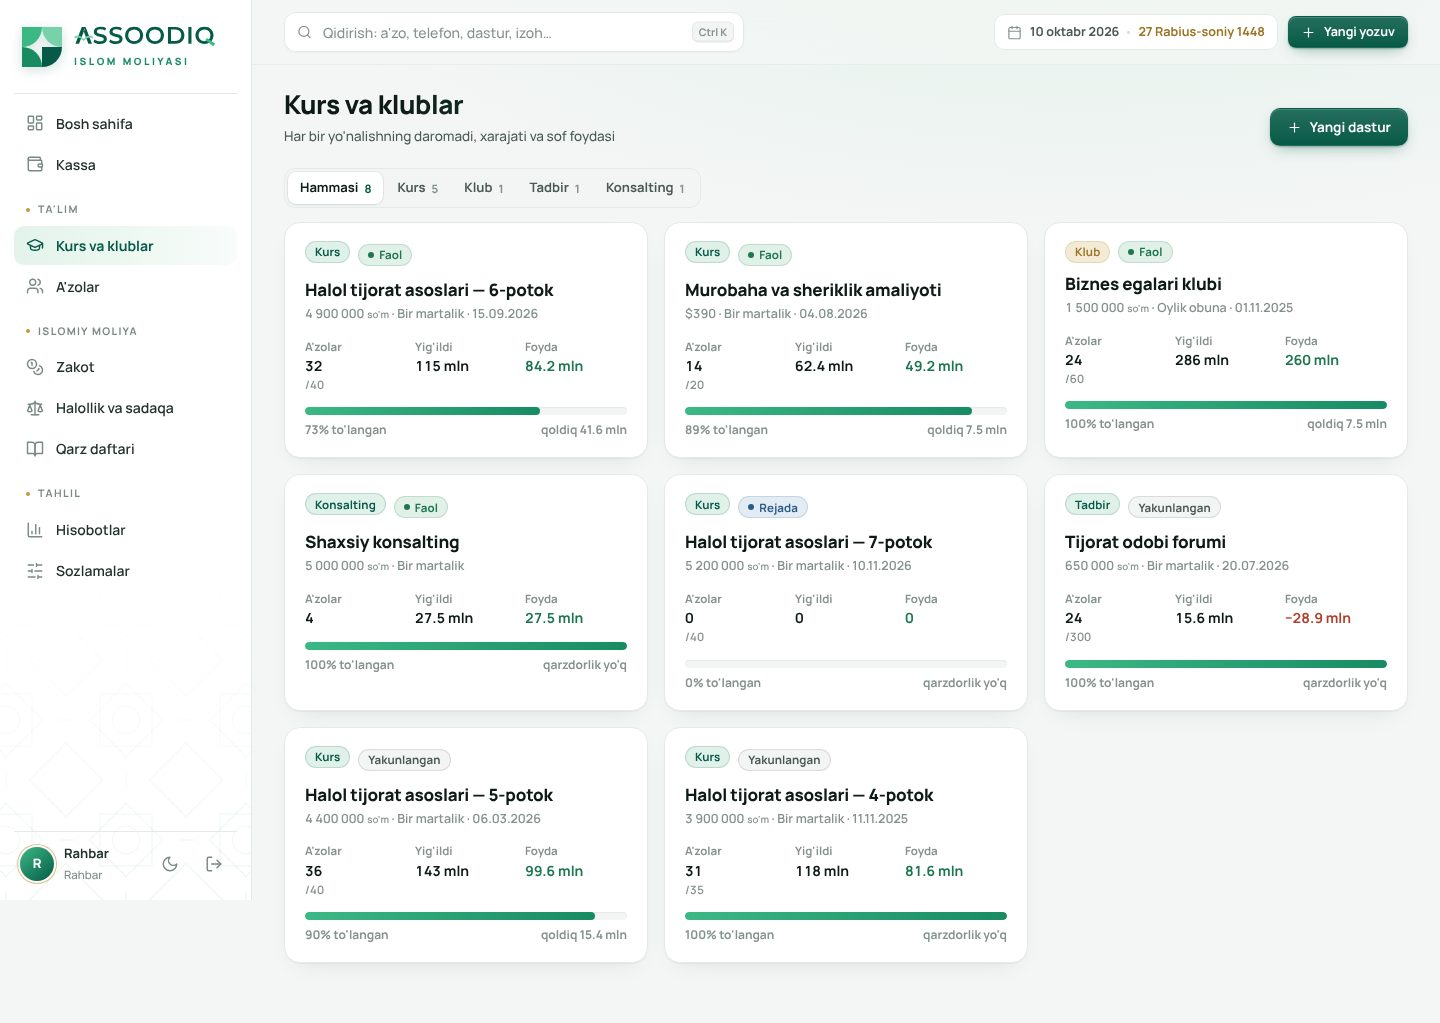
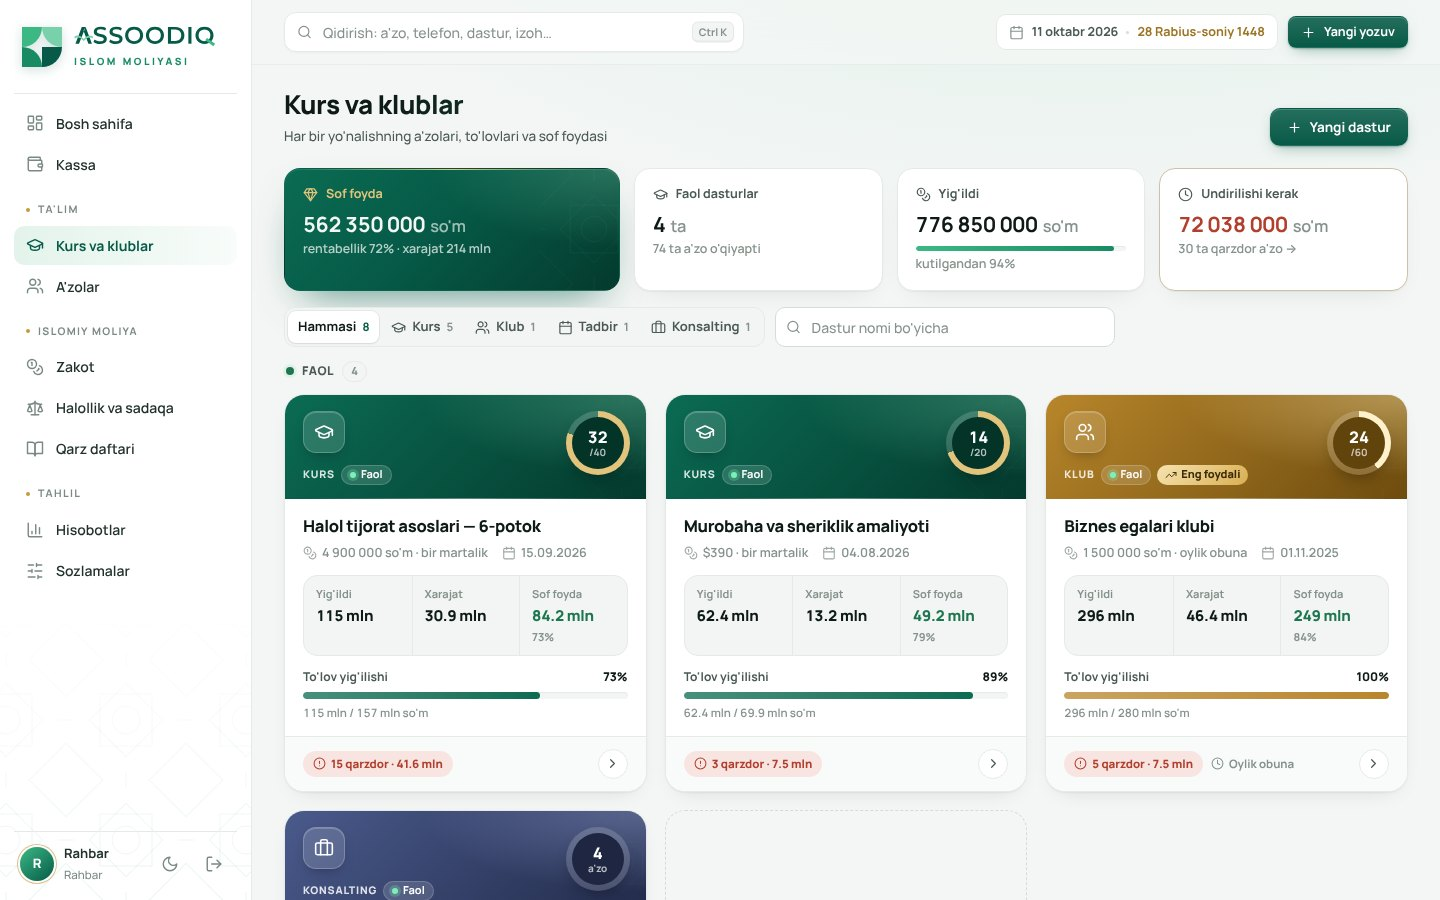
feat(dasturlar): professional kartochkalar va umumiy ko'rsatkichlar
- Har bir dastur turi uchun rangli muqova (kurs — zumrad, klub — oltin, tadbir — moviy,
  konsalting — indigo), ikonka, holat belgisi va o'rinlar bandligi halqasi
- Kartada yig'ildi / xarajat / sof foyda (rentabellik bilan), to'lov yig'ilishi chizig'i,
  qarzdorlar soni va qoldig'i, muddat (necha kun qoldi / boshlanadi / tugagan)
- Eng foydali dastur belgisi, yakunlanganlar sokin ko'rinishda
- Tepada sof foyda, faol dasturlar, yig'ilgan va undirilishi kerak summa
- Holat bo'yicha guruhlar, nom bo'yicha qidiruv, «Yangi dastur» kartasi

Claude-Session: https://claude.ai/code/session_01DkcMtNmmPnFdSFcGHH43mz

diff --git a/static/css/app.css b/static/css/app.css
@@ -1046,3 +1046,90 @@ details.more-opts[open] summary { border-bottom: 1px solid var(--line); }
   .toolbar .k-cat { flex: 1 1 40%; }
   .toolbar .search { flex: 1 1 55%; min-width: 0; max-width: none; }
 }
+
+/* ══ Kurs va klublar: professional kartochkalar ═══════════════════════════ */
+.p-sum { grid-template-columns: 1.35fr 1fr 1fr 1fr; }
+.p-sum .bar.thin { height: 5px; }
+.stat.warn-stat { border-color: color-mix(in srgb, var(--warn) 30%, var(--line)); }
+.p-group + .p-group { margin-top: 26px; }
+.p-group-h { display: flex; align-items: center; gap: 8px; margin: 4px 2px 12px; font-size: 12px; font-weight: 800; letter-spacing: .6px; text-transform: uppercase; color: var(--txt2); }
+.p-group-h .n { font-size: 11px; font-weight: 800; color: var(--txt3); background: var(--surface2); border: 1px solid var(--line); border-radius: 999px; padding: 1px 8px; letter-spacing: 0; }
+.dot-st { width: 8px; height: 8px; border-radius: 50%; background: var(--txt3); }
+.dot-st.st-faol { background: var(--ok); box-shadow: 0 0 0 3px var(--ok-bg); }
+.dot-st.st-rejada { background: var(--info); box-shadow: 0 0 0 3px var(--info-bg); }
+
+.pcards { display: grid; grid-template-columns: repeat(auto-fill, minmax(320px, 1fr)); gap: 18px; }
+.pcard { --cv1: #0B6B53; --cv2: #043A2E; --cv-glow: rgba(120, 209, 171, .35); --ring: #E3C47C;
+  position: relative; display: flex; flex-direction: column; border-radius: 20px; background: var(--surface); border: 1px solid var(--line);
+  box-shadow: 0 1px 2px rgba(14, 26, 21, .05), 0 8px 24px -16px rgba(14, 26, 21, .25); overflow: hidden; color: var(--txt);
+  transition: transform .22s cubic-bezier(.2, .8, .2, 1), box-shadow .22s, border-color .22s; animation: rise .45s cubic-bezier(.2, .8, .2, 1) both; }
+.pcard:hover { transform: translateY(-3px); border-color: color-mix(in srgb, var(--cv1) 30%, var(--line)); box-shadow: 0 2px 4px rgba(14, 26, 21, .06), 0 22px 40px -22px color-mix(in srgb, var(--cv1) 70%, transparent); }
+.pcard:focus-visible { outline: none; box-shadow: var(--ring); }
+.pcard.k-klub { --cv1: #B8862B; --cv2: #6E4C0E; --cv-glow: rgba(246, 222, 160, .45); --ring: #FFF1CC; }
+.pcard.k-tadbir { --cv1: #1F7591; --cv2: #0C3A4E; --cv-glow: rgba(140, 214, 236, .35); --ring: #BDE9F5; }
+.pcard.k-konsalting { --cv1: #4A5A8C; --cv2: #222B4A; --cv-glow: rgba(173, 188, 240, .35); --ring: #D5DCF8; }
+
+.pc-cover { position: relative; height: 104px; padding: 16px 18px; color: #fff; overflow: hidden;
+  background: radial-gradient(120% 150% at 100% 0%, var(--cv-glow) 0, transparent 52%), linear-gradient(135deg, var(--cv1) 0%, var(--cv2) 100%); }
+.pc-cover::before { content: ""; position: absolute; inset: 0; background: url("../img/pattern.svg") right -24px center/96px repeat-y; opacity: .35; pointer-events: none; }
+.pc-cover::after { content: ""; position: absolute; left: 18px; right: 18px; bottom: 0; height: 1px; background: linear-gradient(90deg, transparent, rgba(255, 255, 255, .35), transparent); }
+.pc-ico { position: relative; z-index: 1; width: 42px; height: 42px; border-radius: 13px; display: grid; place-items: center; background: rgba(255, 255, 255, .14); border: 1px solid rgba(255, 255, 255, .22); box-shadow: 0 1px 0 rgba(255, 255, 255, .2) inset, 0 6px 14px -6px rgba(0, 0, 0, .35); }
+.pc-ico .ic { width: 20px; height: 20px; }
+.pc-tags { position: relative; z-index: 1; display: flex; gap: 6px; align-items: center; margin-top: 12px; flex-wrap: wrap; padding-right: 76px; }
+.pc-kind { font-size: 10.5px; font-weight: 800; letter-spacing: .8px; text-transform: uppercase; color: rgba(255, 255, 255, .85); }
+.pc-st { display: inline-flex; align-items: center; gap: 5px; height: 20px; padding: 0 8px; border-radius: 999px; font-size: 11px; font-weight: 700; background: rgba(255, 255, 255, .14); border: 1px solid rgba(255, 255, 255, .18); }
+.pc-st i { width: 6px; height: 6px; border-radius: 50%; background: rgba(255, 255, 255, .6); }
+.st-faol .pc-st i { background: #7CF0B8; box-shadow: 0 0 0 3px rgba(124, 240, 184, .25); }
+.st-rejada .pc-st i { background: #9AD7FF; }
+.pc-badge { display: inline-flex; align-items: center; gap: 4px; height: 20px; padding: 0 8px; border-radius: 999px; font-size: 11px; font-weight: 800; color: #3A2A06; background: linear-gradient(135deg, #F6E3B0, #D9AE52); }
+.pc-badge .ic { width: 12px; height: 12px; }
+.pc-ring { position: absolute; z-index: 1; right: 16px; top: 16px; width: 64px; height: 64px; border-radius: 50%; display: grid; place-items: center;
+  background: conic-gradient(var(--ring) calc(var(--p, 0) * 1%), rgba(255, 255, 255, .16) 0); box-shadow: 0 8px 18px -8px rgba(0, 0, 0, .45); }
+.pc-ring.nocap { background: rgba(255, 255, 255, .16); }
+.pc-ring > div { width: 52px; height: 52px; border-radius: 50%; display: flex; flex-direction: column; align-items: center; justify-content: center; line-height: 1; background: color-mix(in srgb, var(--cv2) 88%, #000); }
+.pc-ring b { font-size: 16px; font-weight: 800; font-variant-numeric: tabular-nums; }
+.pc-ring span { font-size: 10px; font-weight: 700; color: rgba(255, 255, 255, .7); margin-top: 2px; }
+
+.pc-body { padding: 16px 18px 14px; display: flex; flex-direction: column; gap: 12px; flex: 1; }
+.pc-body h3 { margin: 0; font-size: 16.5px; font-weight: 800; line-height: 1.3; letter-spacing: -.3px; display: -webkit-box; -webkit-line-clamp: 2; -webkit-box-orient: vertical; overflow: hidden; }
+.pc-meta { display: flex; flex-wrap: wrap; gap: 6px 14px; margin-top: -4px; font-size: 12.5px; font-weight: 600; color: var(--txt3); }
+.pc-meta span { display: inline-flex; align-items: center; gap: 5px; }
+.pc-meta .ic { width: 14px; height: 14px; opacity: .8; }
+.pc-kpis { display: grid; grid-template-columns: repeat(3, 1fr); border-radius: 14px; background: var(--surface2); border: 1px solid var(--line); }
+.pc-kpis > div { padding: 10px 12px; min-width: 0; }
+.pc-kpis > div + div { border-left: 1px solid var(--line); }
+.pc-kpis span { display: block; font-size: 11px; font-weight: 700; color: var(--txt3); }
+.pc-kpis b { display: block; margin-top: 3px; font-size: 15px; font-weight: 800; letter-spacing: -.2px; white-space: nowrap; font-variant-numeric: tabular-nums; }
+.pc-kpis em { display: block; font-style: normal; font-size: 11px; font-weight: 700; color: var(--txt3); margin-top: 1px; }
+.pc-prog-h { display: flex; justify-content: space-between; font-size: 12px; font-weight: 700; color: var(--txt2); margin-bottom: 6px; }
+.pc-prog-h b { font-weight: 800; color: var(--txt); }
+.pc-prog .bar { height: 7px; }
+.pc-prog .bar i { background: linear-gradient(90deg, color-mix(in srgb, var(--cv1) 75%, #fff), var(--cv1)); }
+.pc-prog-f { margin-top: 5px; font-size: 11.5px; font-weight: 600; color: var(--txt3); font-variant-numeric: tabular-nums; }
+
+.pc-foot { display: flex; align-items: center; gap: 8px; padding: 12px 18px; border-top: 1px solid var(--line); background: color-mix(in srgb, var(--surface2) 45%, var(--surface)); }
+.pc-chip { display: inline-flex; align-items: center; gap: 5px; height: 26px; padding: 0 10px; border-radius: 999px; font-size: 11.5px; font-weight: 750; background: var(--surface2); color: var(--txt2); white-space: nowrap; }
+.pc-chip .ic, .pc-time .ic { width: 13px; height: 13px; }
+.pc-chip.ok { background: var(--ok-bg); color: var(--ok); }
+.pc-chip.bad { background: var(--bad-bg); color: var(--bad); }
+.pc-time { display: inline-flex; align-items: center; gap: 5px; font-size: 11.5px; font-weight: 650; color: var(--txt3); white-space: nowrap; overflow: hidden; text-overflow: ellipsis; min-width: 0; }
+.pc-go { margin-left: auto; flex: none; width: 30px; height: 30px; border-radius: 50%; display: grid; place-items: center; background: var(--surface); border: 1px solid var(--line); color: var(--txt2); transition: background .2s, color .2s, transform .2s; }
+.pcard:hover .pc-go { background: var(--cv1); border-color: var(--cv1); color: #fff; transform: translateX(2px); }
+
+/* Yakunlangan dasturlar: sokinroq */
+.pcard.st-yakunlangan .pc-cover { filter: saturate(.35) brightness(.92); }
+.pcard.st-yakunlangan .pc-prog .bar i { background: var(--txt3); }
+
+/* Yangi dastur kartasi */
+.pc-new { align-items: center; justify-content: center; gap: 6px; min-height: 300px; border: 1.5px dashed var(--line2); background: transparent; box-shadow: none; cursor: pointer; font: inherit; color: var(--txt2); }
+.pc-new:hover { border-color: var(--brand); background: color-mix(in srgb, var(--brand-bg) 40%, transparent); box-shadow: none; }
+.pc-new-i { width: 48px; height: 48px; border-radius: 16px; display: grid; place-items: center; background: var(--grad-em); color: #fff; margin-bottom: 6px; box-shadow: 0 10px 20px -10px rgba(6, 90, 71, .6); }
+.pc-new b { font-size: 15px; color: var(--txt); }
+.pc-new > span:last-child { font-size: 12.5px; color: var(--txt3); font-weight: 600; }
+
+@media (max-width: 1100px) { .p-sum { grid-template-columns: repeat(2, minmax(0, 1fr)); } }
+@media (max-width: 860px) {
+  .pcards { grid-template-columns: 1fr; gap: 14px; }
+  .p-sum .stat.hero, .p-sum > .stat:last-child { grid-column: 1 / -1; }
+  .pc-new { min-height: 120px; }
+}

diff --git a/templates/pages/programs.html b/templates/pages/programs.html
@@ -1,48 +1,118 @@
 {% extends "base.html" %}
 {% block title %}Kurs va klublar{% endblock %}
 {% block content %}
+{% set KIND_ICON = {"kurs": "cap", "klub": "users", "tadbir": "calendar", "konsalting": "briefcase"} %}
+{% set can_edit = g.user.role != 'menejer' %}
 <div class="head">
   <div>
     <div class="head-t">Kurs va klublar</div>
-    <div class="head-s">Har bir yo'nalishning daromadi, xarajati va sof foydasi</div>
+    <div class="head-s">Har bir yo'nalishning a'zolari, to'lovlari va sof foydasi</div>
   </div>
   <div class="head-a">
-    {% if g.user.role != 'menejer' %}<button class="btn solid" data-open="prog-modal">{{ ui.icon('plus', 'sm') }} Yangi dastur</button>{% endif %}
+    {% if can_edit %}<button class="btn solid" data-open="prog-modal">{{ ui.icon('plus', 'sm') }} Yangi dastur</button>{% endif %}
   </div>
+</div>
+
+{# Umumiy ko'rsatkichlar #}
+<div class="stats p-sum">
+  <div class="stat hero">
+    <div class="stat-l">{{ ui.icon('gem', 'sm') }} Sof foyda{{ ' · ' ~ kinds[kind] if kind }}</div>
+    <div class="stat-v">{{ ui.som(summary.profit) }}</div>
+    <div class="stat-s">rentabellik {{ summary.margin|pct }} · xarajat {{ summary.expenses|short }}</div>
+  </div>
+  <div class="stat">
+    <div class="stat-l">{{ ui.icon('cap', 'sm') }} Faol dasturlar</div>
+    <div class="stat-v">{{ summary.active }}<span class="cur">ta</span></div>
+    <div class="stat-s">{{ summary.members }} ta a'zo o'qiyapti</div>
+  </div>
+  <div class="stat">
+    <div class="stat-l">{{ ui.icon('coins', 'sm') }} Yig'ildi</div>
+    <div class="stat-v">{{ ui.som(summary.collected) }}</div>
+    <div class="bar thin" style="margin-top:10px"><i style="width:{{ (summary.progress * 100)|round }}%"></i></div>
+    <div class="stat-s">kutilgandan {{ summary.progress|pct }}</div>
+  </div>
+  <a class="stat {{ 'warn-stat' if summary.due > 0 }}" href="{{ url_for('dastur.members', holat='qarzdor') }}">
+    <div class="stat-l">{{ ui.icon('clock', 'sm') }} Undirilishi kerak</div>
+    <div class="stat-v {{ 'bad-t' if summary.due > 0 }}">{{ ui.som(summary.due) }}</div>
+    <div class="stat-s">{% if summary.debtors %}{{ summary.debtors }} ta qarzdor a'zo →{% else %}hamma to'lagan{% endif %}</div>
+  </a>
 </div>
 
 <div class="toolbar">
   <div class="seg">
     <a href="{{ url_for('dastur.programs') }}" class="{{ 'on' if not kind }}">Hammasi <span class="n">{{ counts[''] }}</span></a>
-    {% for k, v in kinds.items() %}<a href="{{ url_for('dastur.programs', tur=k) }}" class="{{ 'on' if kind == k }}">{{ v }} <span class="n">{{ counts[k] }}</span></a>{% endfor %}
+    {% for k, v in kinds.items() %}<a href="{{ url_for('dastur.programs', tur=k) }}" class="{{ 'on' if kind == k }}">{{ ui.icon(KIND_ICON[k], 'sm') }} {{ v }} <span class="n">{{ counts[k] }}</span></a>{% endfor %}
   </div>
+  <label class="search">{{ ui.icon('search', 'sm') }}<input type="search" placeholder="Dastur nomi bo'yicha" data-filter="#p-groups" aria-label="Dastur qidirish"></label>
 </div>
 
-<div class="prog-grid">
-  {% for s in stats %}
-  {% set p = s.program %}
-  <a class="card prog" href="{{ url_for('dastur.program', pid=p.id) }}">
-    <div>
-      <div class="prog-top">
-        <span class="pill {{ 'gold' if p.kind == 'klub' else 'brand' }}">{{ p.kind_name }}</span>
-        <span class="pill {{ 'ok' if p.status == 'faol' else ('info' if p.status == 'rejada' else '') }}">{{ p.status_name }}</span>
-      </div>
-      <h3 style="margin-top:10px">{{ p.name }}</h3>
-      <div class="meta">{{ ui.som(p.price, p.currency) }} · {{ p.billing_name }}{% if p.start_date %} · {{ p.start_date|d }}{% endif %}</div>
+<div id="p-groups">
+{% for st, st_name, items in groups %}
+  <div class="p-group">
+    <div class="p-group-h"><span class="dot-st st-{{ st }}"></span>{{ st_name }}<span class="n">{{ items|length }}</span></div>
+    <div class="pcards">
+    {% for s in items %}
+      {% set p = s.program %}
+      {% if p.status == 'rejada' and p.start_date %}{% set days = (p.start_date - today).days %}
+        {% set timing = (days ~ ' kundan keyin boshlanadi') if days > 0 else ('bugun boshlanadi' if days == 0 else "boshlanish sanasi o'tdi") %}
+      {% elif p.status == 'faol' and p.end_date and p.end_date >= today %}{% set timing = ((p.end_date - today).days ~ ' kun qoldi') %}
+      {% elif p.status == 'yakunlangan' and (p.end_date or p.start_date) %}{% set timing = 'tugagan ' ~ (p.end_date or p.start_date)|d %}
+      {% elif p.billing != 'bir_martalik' %}{% set timing = p.billing_name %}
+      {% else %}{% set timing = '' %}{% endif %}
+      <a class="pcard k-{{ p.kind }} st-{{ p.status }}" href="{{ url_for('dastur.program', pid=p.id) }}" data-q="{{ p.name }} {{ p.kind_name }}">
+        <div class="pc-cover">
+          <div class="pc-ico">{{ ui.icon(KIND_ICON.get(p.kind, 'cap')) }}</div>
+          <div class="pc-tags">
+            <span class="pc-kind">{{ p.kind_name }}</span>
+            <span class="pc-st"><i></i>{{ p.status_name }}</span>
+            {% if best and best.program.id == p.id and s.profit > 0 and stats|length > 2 %}<span class="pc-badge">{{ ui.icon('up', 'sm') }} Eng foydali</span>{% endif %}
+          </div>
+          {% if p.capacity %}
+          <div class="pc-ring" style="--p:{{ [((s.fill or 0) * 100)|round|int, 100]|min }}" title="{{ s.members }} / {{ p.capacity }} o'rin band">
+            <div><b>{{ s.members }}</b><span>/{{ p.capacity }}</span></div>
+          </div>
+          {% else %}
+          <div class="pc-ring nocap" title="{{ s.members }} ta a'zo"><div><b>{{ s.members }}</b><span>a'zo</span></div></div>
+          {% endif %}
+        </div>
+        <div class="pc-body">
+          <h3>{{ p.name }}</h3>
+          <div class="pc-meta">
+            <span>{{ ui.icon('coins', 'sm') }}{{ p.price|money(p.currency) }}{% if p.currency != 'USD' %} so'm{% endif %} · {{ p.billing_name|lower }}</span>
+            {% if p.start_date %}<span>{{ ui.icon('calendar', 'sm') }}{{ p.start_date|d }}{% if p.end_date %} – {{ p.end_date|d }}{% endif %}</span>{% endif %}
+          </div>
+          <div class="pc-kpis">
+            <div><span>Yig'ildi</span><b>{{ s.collected|short }}</b></div>
+            <div><span>Xarajat</span><b>{{ s.expenses|short }}</b></div>
+            <div><span>Sof foyda</span><b class="{{ 'bad-t' if s.profit < 0 else 'ok-t' }}">{{ s.profit|short }}</b>{% if s.collected %}<em>{{ s.margin|pct }}</em>{% endif %}</div>
+          </div>
+          <div class="pc-prog">
+            <div class="pc-prog-h"><span>To'lov yig'ilishi</span><b>{{ s.progress|pct }}</b></div>
+            <div class="bar"><i style="width:{{ (s.progress * 100)|round }}%"></i></div>
+            <div class="pc-prog-f">{{ s.collected|short }} / {{ s.expected|short }} so'm</div>
+          </div>
+        </div>
+        <div class="pc-foot">
+          {% if s.debtors %}<span class="pc-chip bad">{{ ui.icon('alert', 'sm') }} {{ s.debtors }} qarzdor · {{ s.due|short }}</span>
+          {% elif s.members %}<span class="pc-chip ok">{{ ui.icon('check', 'sm') }} Qarzdorlik yo'q</span>
+          {% else %}<span class="pc-chip">{{ ui.icon('user-plus', 'sm') }} A'zo yo'q</span>{% endif %}
+          {% if timing %}<span class="pc-time">{{ ui.icon('clock', 'sm') }}{{ timing }}</span>{% endif %}
+          <span class="pc-go" aria-hidden="true">{{ ui.icon('right', 'sm') }}</span>
+        </div>
+      </a>
+    {% endfor %}
+    {% if loop.first and can_edit %}
+      <button type="button" class="pcard pc-new" data-open="prog-modal">
+        <span class="pc-new-i">{{ ui.icon('plus') }}</span>
+        <b>Yangi dastur</b>
+        <span>Kurs, klub, tadbir yoki konsalting</span>
+      </button>
+    {% endif %}
     </div>
-    <div class="kv">
-      <div><span>A'zolar</span><b>{{ s.members }}{% if p.capacity %}<span class="faint" style="font-weight:600">/{{ p.capacity }}</span>{% endif %}</b></div>
-      <div><span>Yig'ildi</span><b>{{ s.collected|short }}</b></div>
-      <div><span>Foyda</span><b class="{{ 'bad-t' if s.profit < 0 else 'ok-t' }}">{{ s.profit|short }}</b></div>
-    </div>
-    <div>
-      <div class="bar"><i style="width:{{ (s.progress * 100)|round }}%"></i></div>
-      <div class="prog-foot"><span>{{ s.progress|pct }} to'langan</span><span>{% if s.due > 0 %}qoldiq {{ s.due|short }}{% else %}qarzdorlik yo'q{% endif %}</span></div>
-    </div>
-  </a>
-  {% else %}
-  <div class="card empty" style="grid-column:1/-1">{{ ui.icon('cap') }}<b>Hali dastur yo'q</b>Birinchi kurs yoki klubni qo'shing.</div>
-  {% endfor %}
+  </div>
+{% else %}
+  <div class="card empty">{{ ui.icon('cap') }}<b>Hali dastur yo'q</b>Birinchi kurs yoki klubni qo'shing.</div>
+{% endfor %}
 </div>
 
 {% include "partials/program_form.html" %}

diff --git a/templates/base.html b/templates/base.html
@@ -12,7 +12,7 @@
   <link rel="preconnect" href="https://fonts.googleapis.com">
   <link rel="preconnect" href="https://fonts.gstatic.com" crossorigin>
   <link href="https://fonts.googleapis.com/css2?family=Manrope:wght@400;500;600;700;800&display=swap" rel="stylesheet">
-  <link rel="stylesheet" href="{{ url_for('static', filename='css/app.css') }}?v=16">
+  <link rel="stylesheet" href="{{ url_for('static', filename='css/app.css') }}?v=17">
   <script>
     document.documentElement.classList.add('js');
     try { var t = localStorage.getItem('theme'); if (t) document.documentElement.dataset.theme = t; var kv = localStorage.getItem('kview'); if (kv) document.documentElement.dataset.kview = kv; } catch (e) {}
@@ -97,7 +97,7 @@
   {% for cat, msg in get_flashed_messages(with_categories=true) %}<div class="flash {{ cat }}" role="{{ 'alert' if cat == 'bad' else 'status' }}">{{ ui.icon('alert' if cat == 'bad' else 'check', 'sm') }}<span>{{ msg }}</span></div>{% endfor %}
 </div>
 {% endblock %}
-<script src="{{ url_for('static', filename='js/app.js') }}?v=16"></script>
+<script src="{{ url_for('static', filename='js/app.js') }}?v=17"></script>
 {% block scripts %}{% endblock %}
 </body>
 </html>

diff --git a/views/dastur.py b/views/dastur.py
@@ -41,8 +41,27 @@ def programs():
     stats = [F.program_stats(p, paid_map) for p in items]
     counts = {k: Program.query.filter_by(kind=k).count() for k in PROGRAM_KINDS}
     counts[""] = Program.query.count()
-    return render_template("pages/programs.html", stats=stats, kind=kind, counts=counts,
-                           kinds=PROGRAM_KINDS, statuses=PROGRAM_STATUS, billings=BILLING)
+    # Holat bo'yicha guruhlar: faol → rejada → yakunlangan
+    groups = [(st, PROGRAM_STATUS[st], [s for s in stats if s["program"].status == st])
+              for st in ("faol", "rejada", "yakunlangan")]
+    groups = [g for g in groups if g[2]]
+    active = [s for s in stats if s["program"].status == "faol"]
+    summary = {
+        "active": len(active),
+        "members": sum(s["members"] for s in active),
+        "collected": sum(s["collected"] for s in stats),
+        "expected": sum(s["expected"] for s in stats),
+        "due": sum(s["due"] for s in stats),
+        "debtors": sum(s["debtors"] for s in stats),
+        "profit": sum(s["profit"] for s in stats),
+        "expenses": sum(s["expenses"] for s in stats),
+    }
+    summary["margin"] = summary["profit"] / summary["collected"] if summary["collected"] else 0
+    summary["progress"] = min(summary["collected"] / summary["expected"], 1) if summary["expected"] else 0
+    best = max(stats, key=lambda s: s["profit"], default=None)
+    return render_template("pages/programs.html", stats=stats, groups=groups, summary=summary, best=best,
+                           kind=kind, counts=counts, kinds=PROGRAM_KINDS, statuses=PROGRAM_STATUS,
+                           billings=BILLING)
 
 
 @bp.route("/dasturlar/saqlash", methods=["POST"])

diff --git a/core/finance.py b/core/finance.py
@@ -336,10 +336,12 @@ def program_stats(program, paid_map=None):
     expenses = sum(v or 0 for _, v in exp_rows)
     marketing = sum(v or 0 for g, v in exp_rows if g == "Marketing")
     n = len(enrs)
-    due = sum(enrollment_row(e, paid_map)["due"] for e in enrs)
+    dues = [enrollment_row(e, paid_map)["due"] for e in enrs]
+    due = sum(dues)
     return {
         "program": program, "members": n, "expected": expected, "collected": collected,
-        "due": due, "expenses": expenses, "profit": collected - expenses,
+        "due": due, "debtors": sum(1 for d in dues if d > 0.01),
+        "expenses": expenses, "profit": collected - expenses,
         "margin": (collected - expenses) / collected if collected else 0,
         "cac": marketing / n if n else 0,
         "progress": min(collected / expected, 1) if expected else 0,
